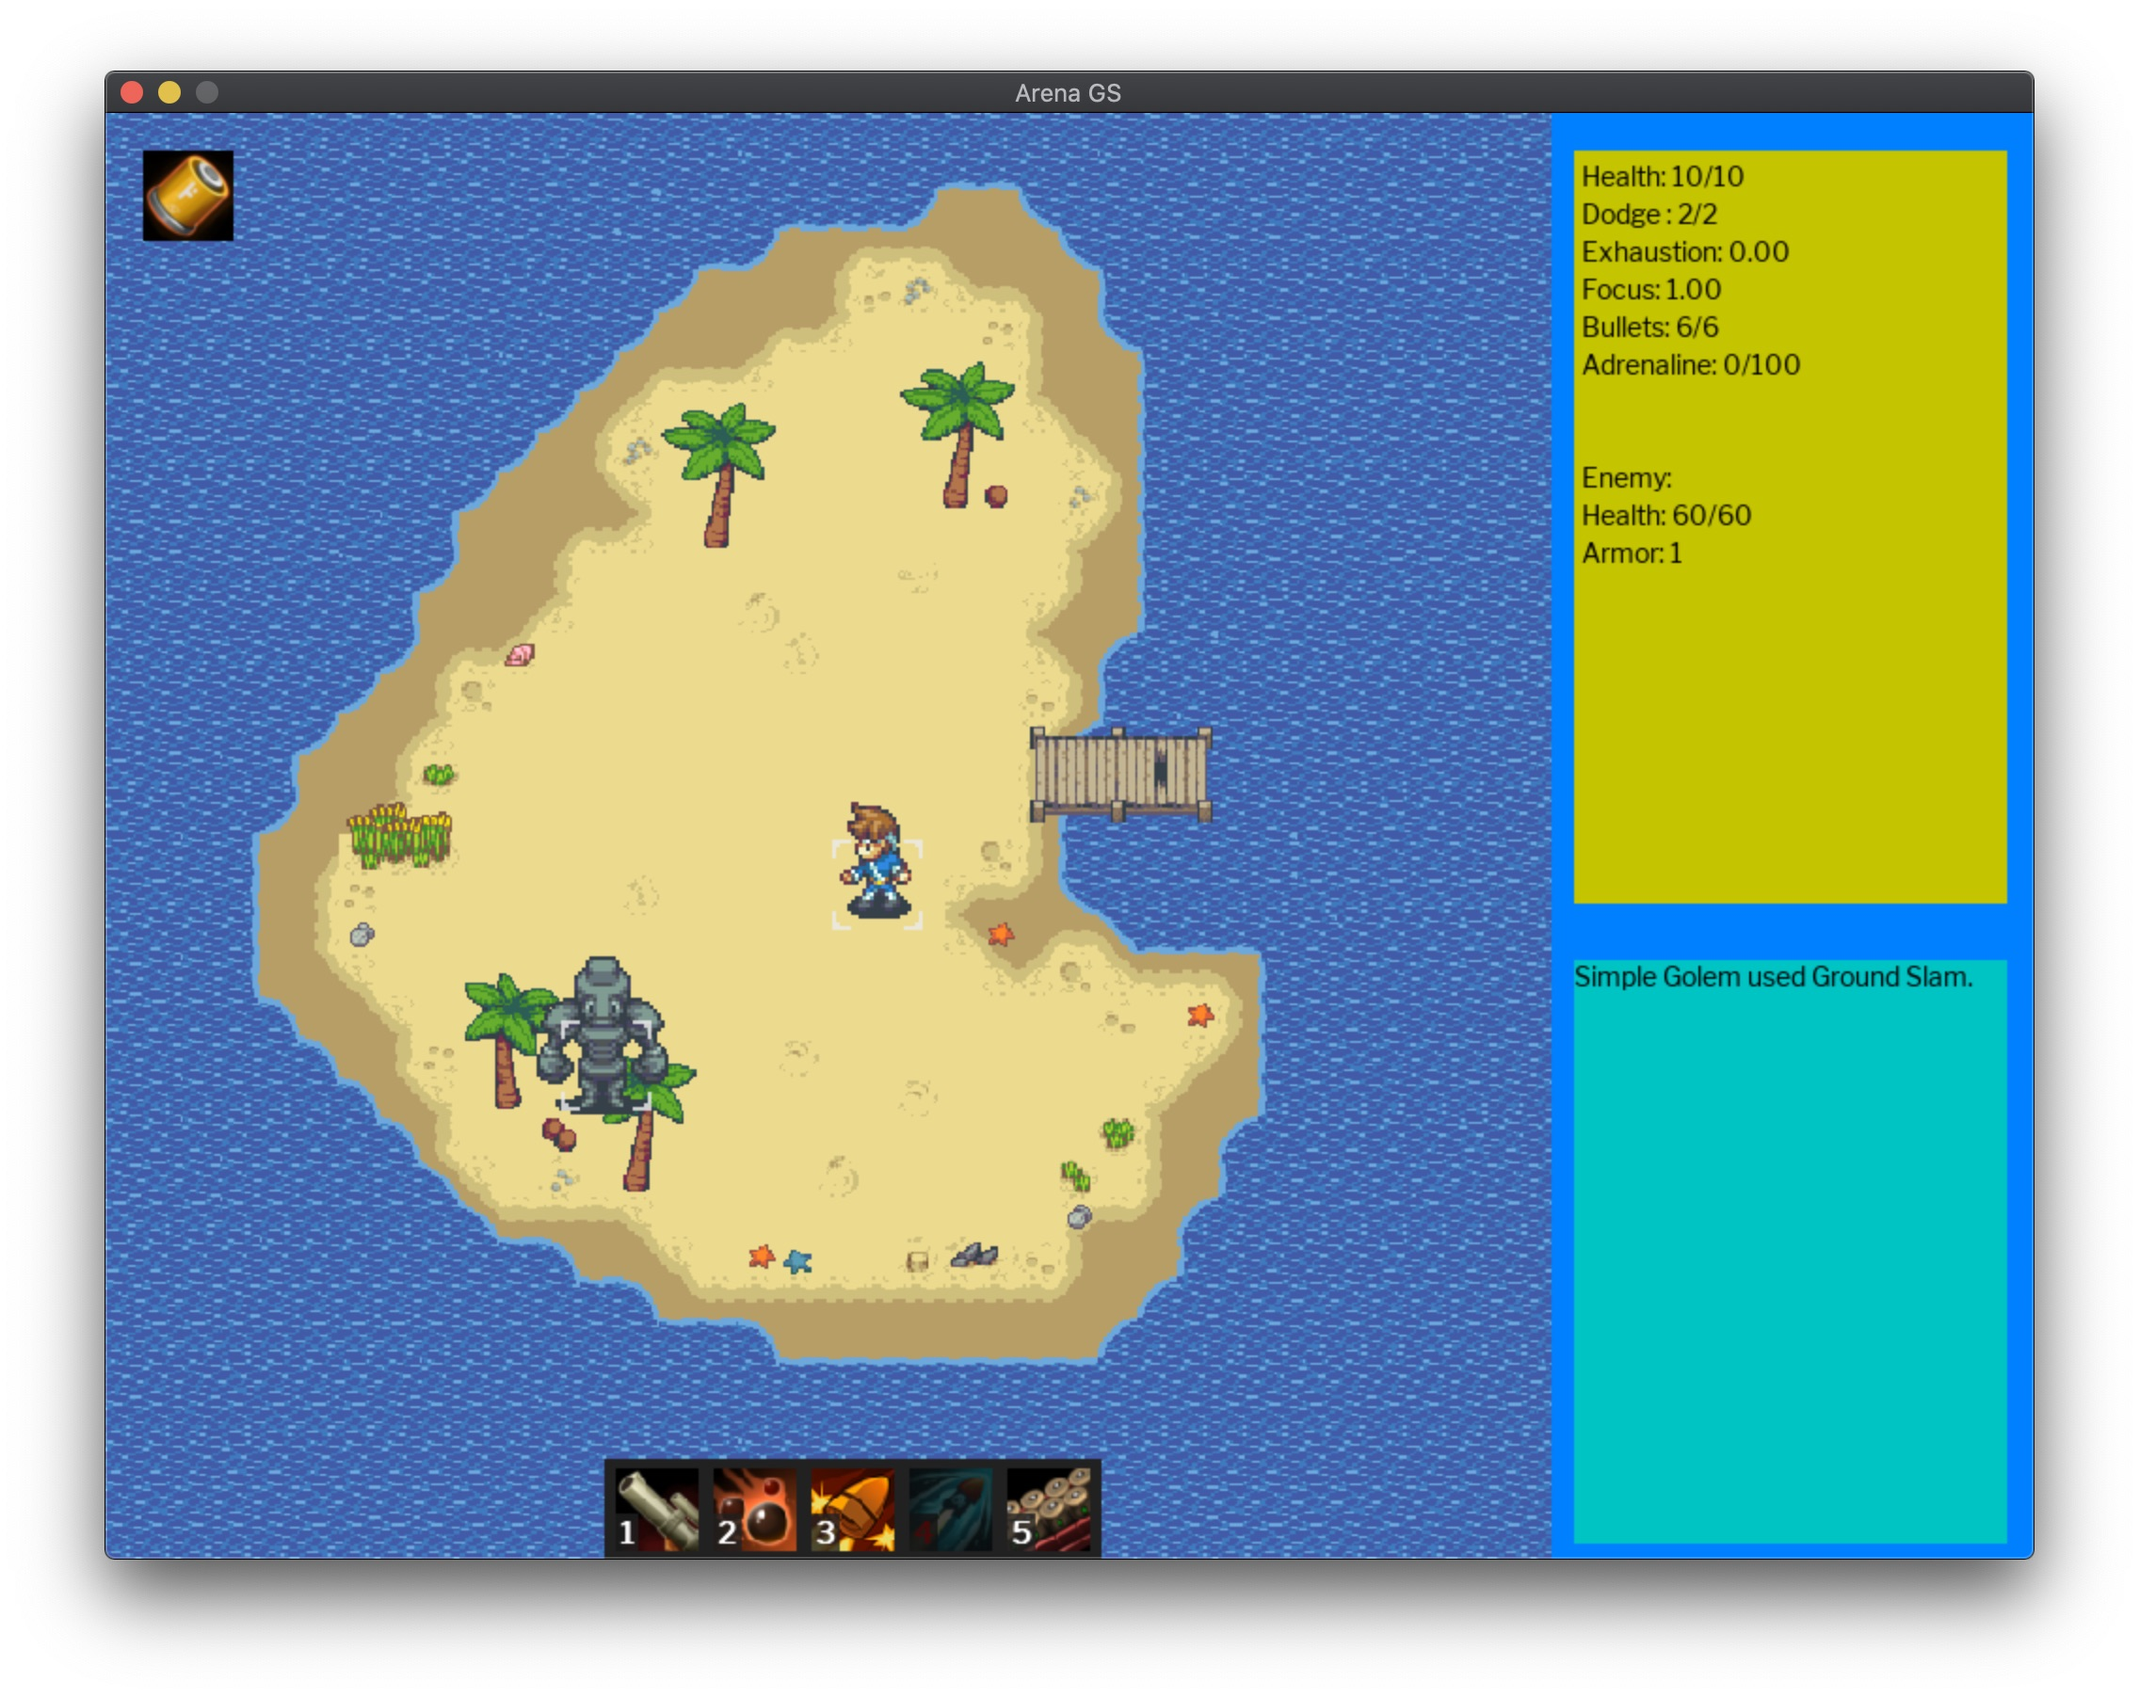
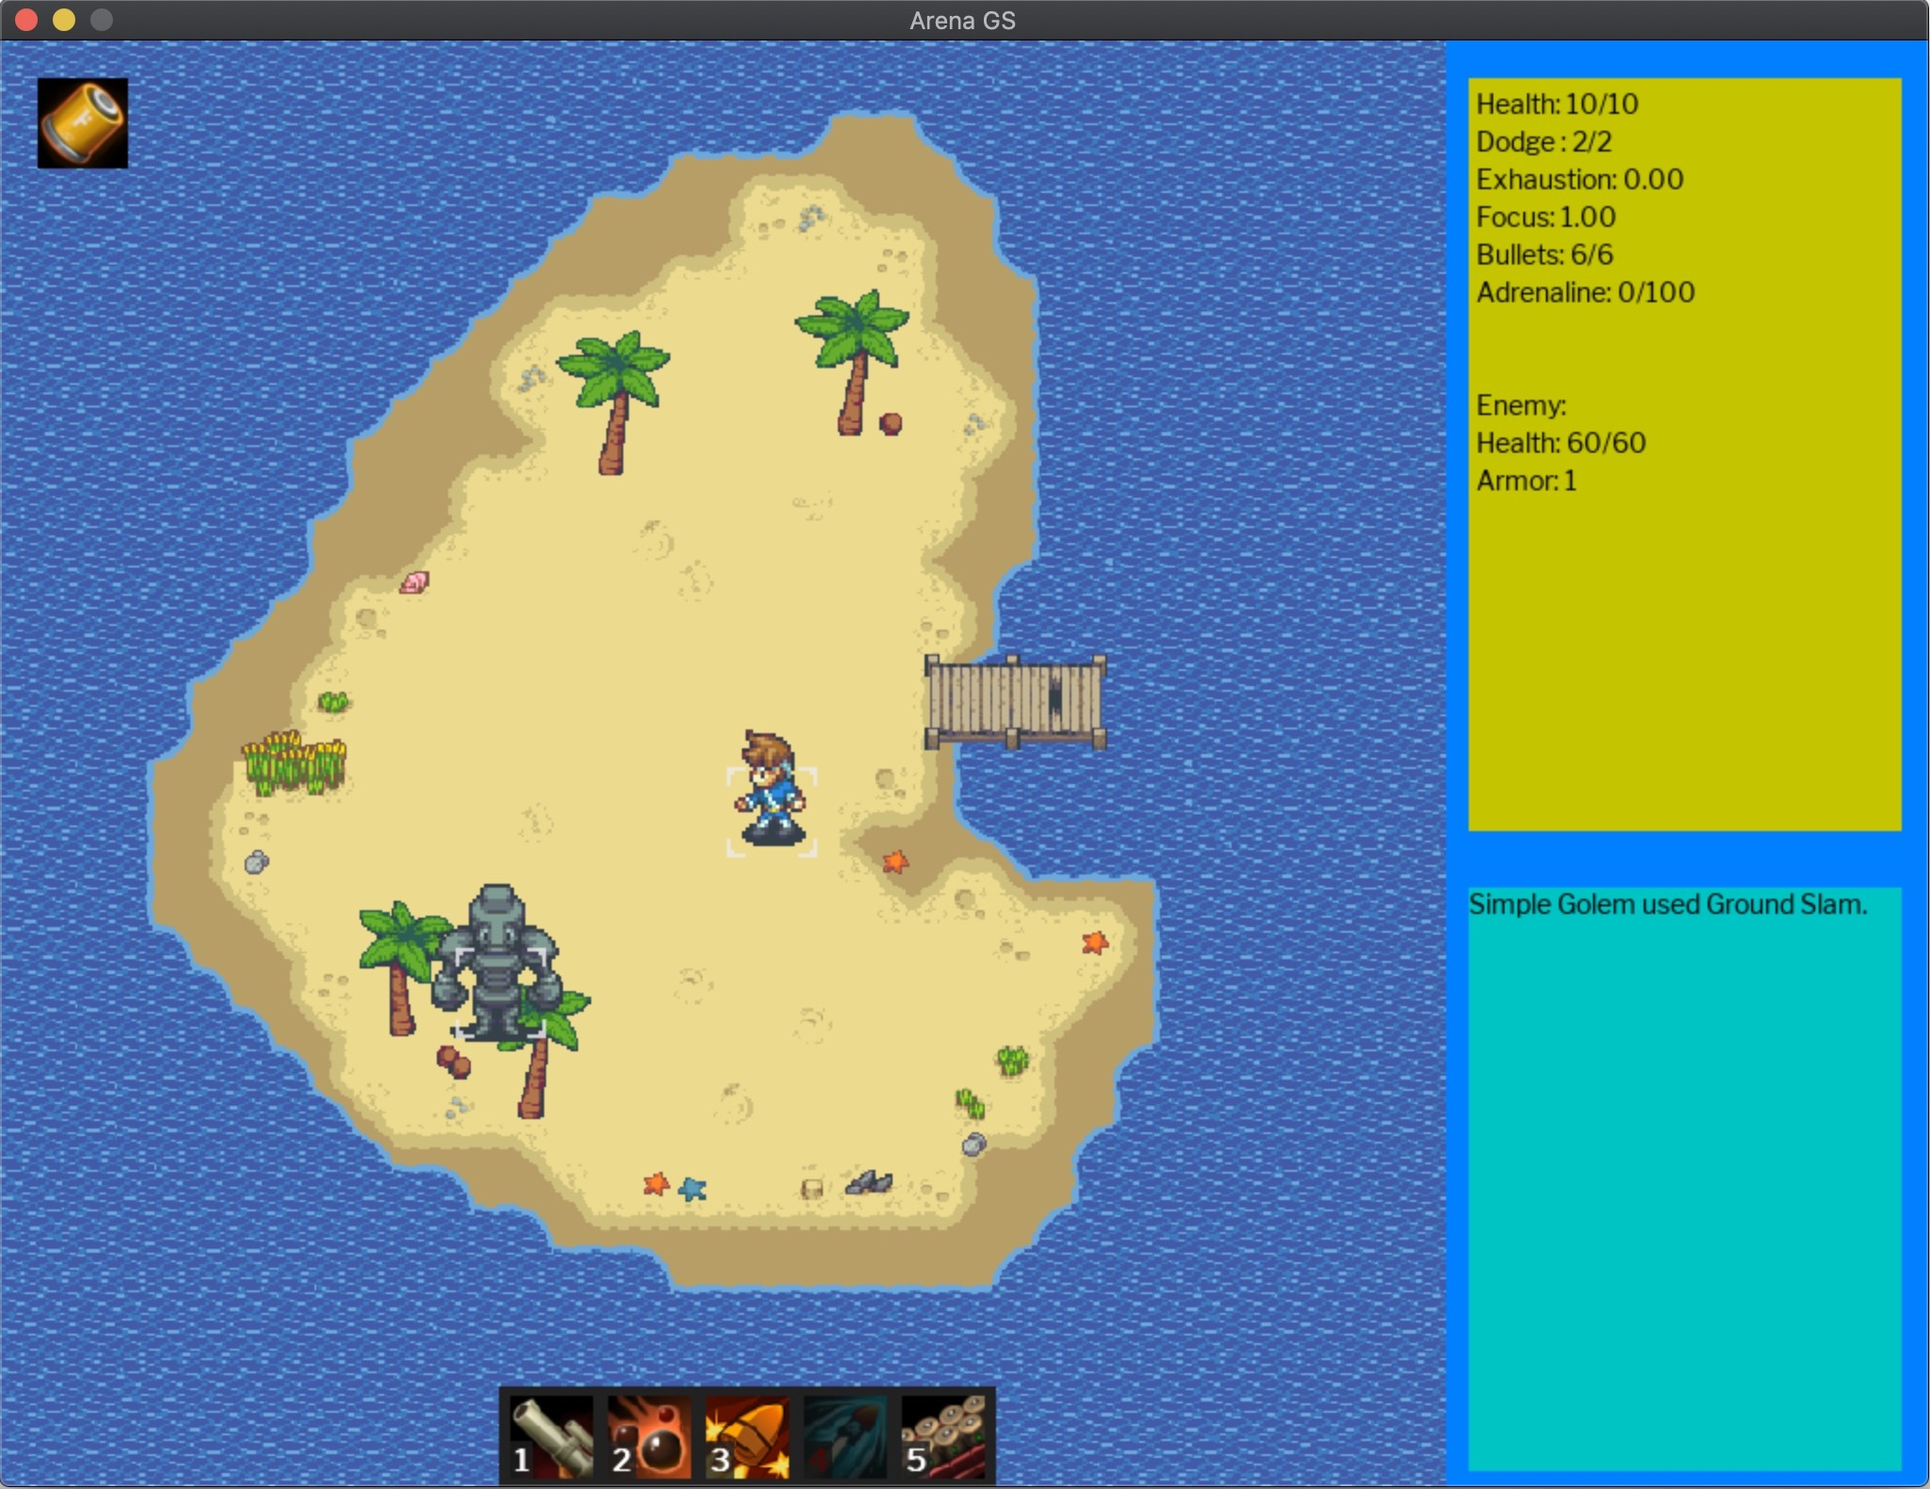
More blog hackery

diff --git a/docs/hello-world.md b/docs/hello-world.md
@@ -6,10 +6,10 @@ Before I got into details, let's see what it looks like today:
 
 This is the full game window:
 
-![Full Screen]({{ site.baseurl }}/images/hello-world-1.png)
+![Full Screen](/images/hello-world-1.jpg)
 
 and these are stippets of the other two fights:
 
-![Golem]({{ site.baseurl }}/images/hello-world-2.png)
+![Golem](/images/hello-world-2.jpg)
 
-![Summoner]({{ site.baseurl }}/images/hello-world-3.png)
+![Summoner](/images/hello-world-3.jpg)
